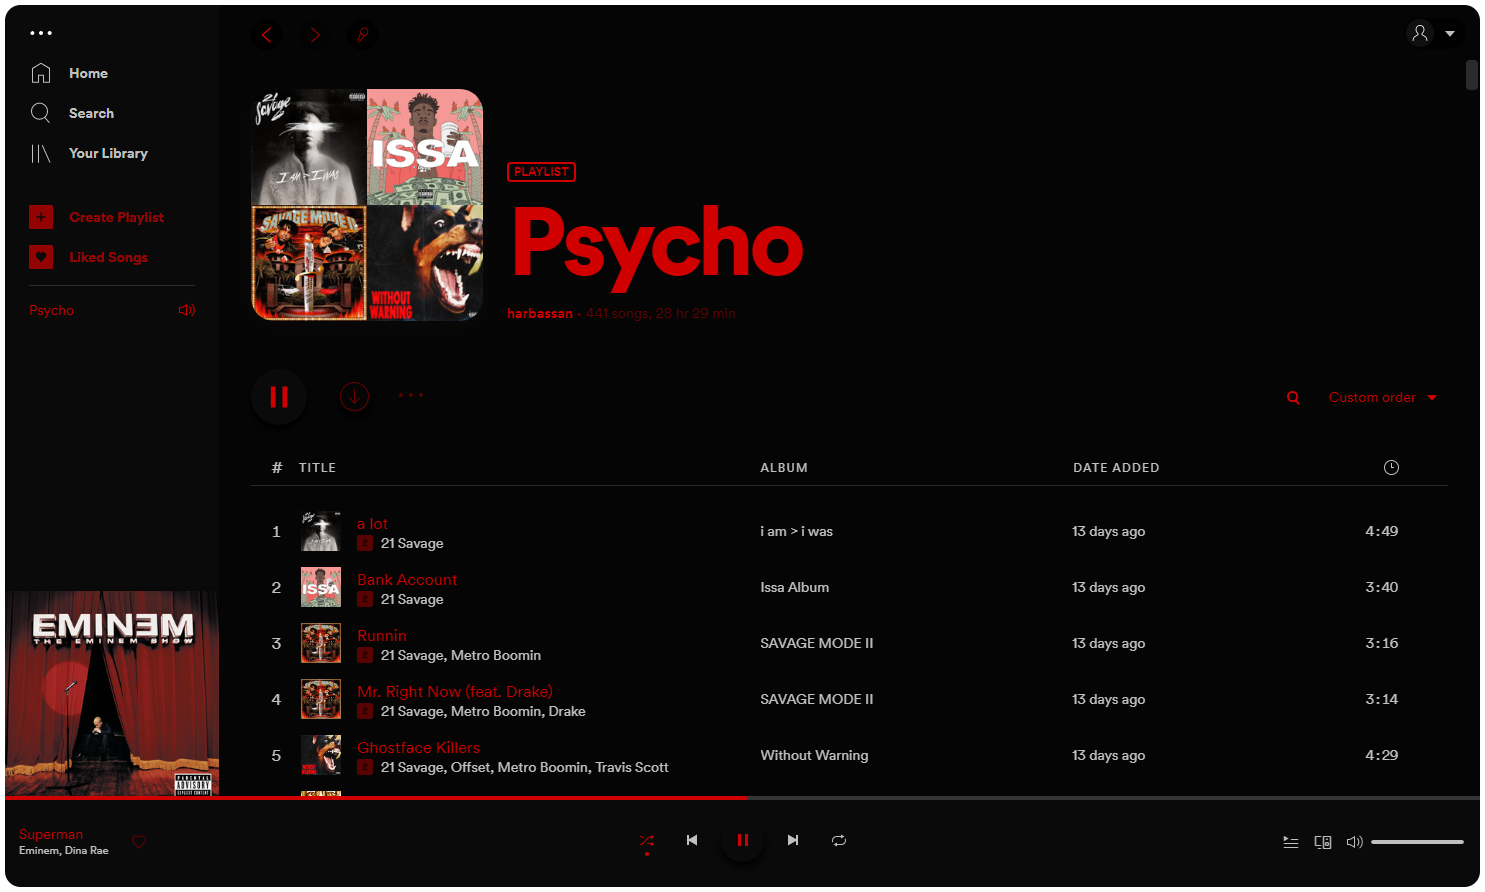
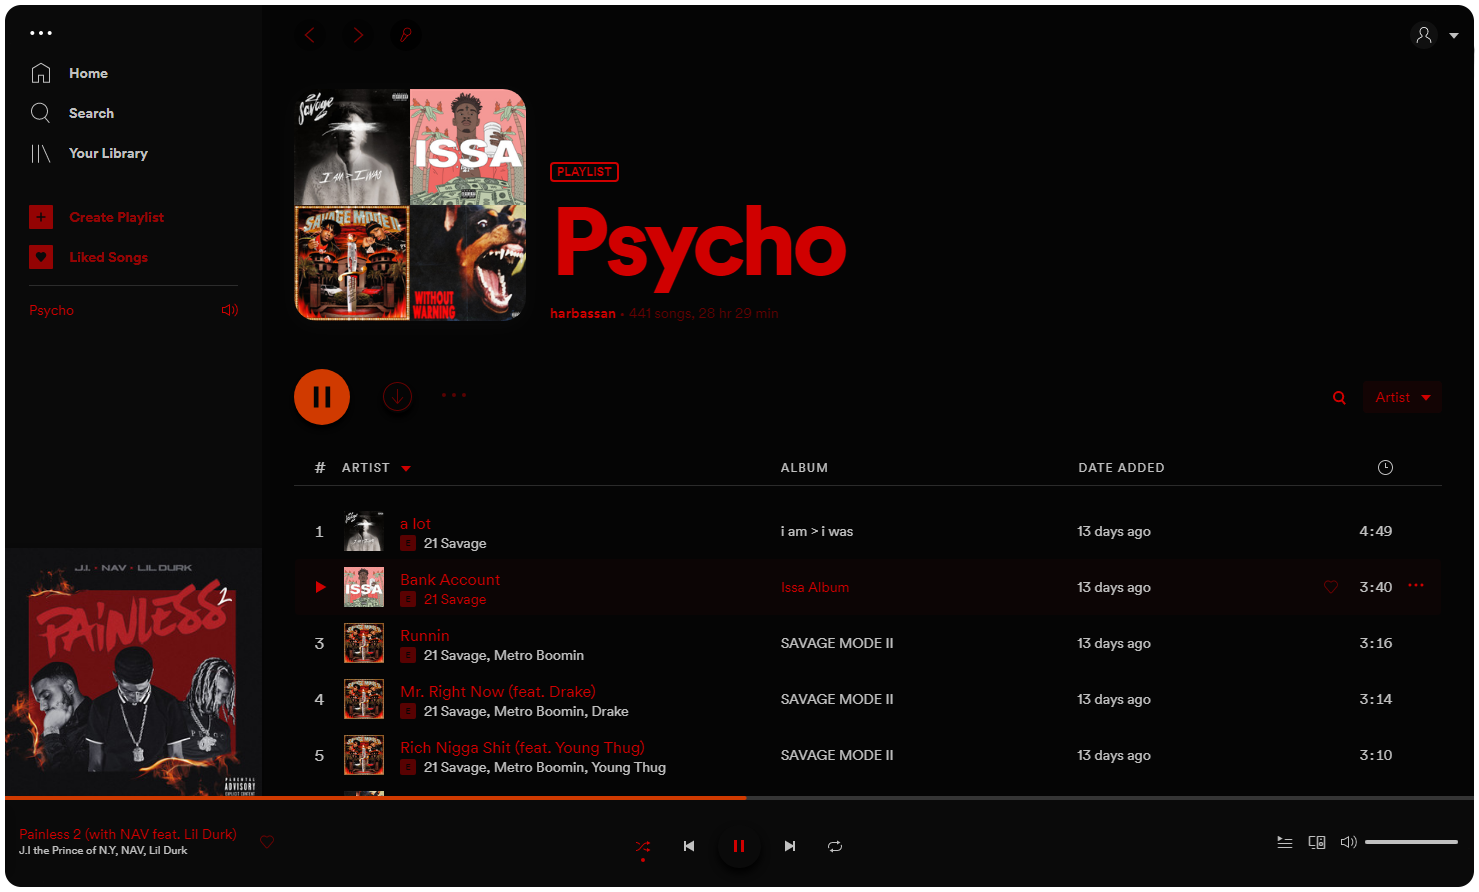
Update Theme

diff --git a/Sleek/user.css b/Sleek/user.css
@@ -27,10 +27,6 @@ input {
     border: 0;
 }
 
-.main-playButton-PlayButton.main-playButton-primary {
-    color: var(--spice-main);
-}
-
 .connect-title, .connect-header {
     display: none;
 }
@@ -81,10 +77,6 @@ span.artist-artistVerifiedBadge-badge svg:nth-child(1) {
     display: none !important;
 }
 
-.main-billboardComponent-footer {
-    display: none !important;
-}
-
 /* Hide Upgrade Button */
 
 .main-topBar-UpgradeButton {
@@ -113,18 +105,8 @@ span.artist-artistVerifiedBadge-badge svg:nth-child(1) {
 }
 
 /* Changing Playback Bar Location */
-
-.playback-bar .progress-bar-wrapper {
-    right: 82.9%;
-}
-
-.playback-bar .progress-bar__bg, .playback-bar .progress-bar__fg_wrapper {
-    width: 265.8%;
+.progress-bar__bg, .progress-bar__fg_wrapper {
     border-radius: 0;
-}
-
-.playback-bar .progress-bar__fg {
-    background-color: var(--spice-text);
 }
 
 .playback-bar__progress-time {
@@ -132,7 +114,9 @@ span.artist-artistVerifiedBadge-badge svg:nth-child(1) {
 }
 
 .playback-bar {
-    transform: translateY(-72px);
+    width: 100%;
+    bottom: 83px;
+    position: absolute;
 }
 
 .main-playbackBarRemainingTime-container {
@@ -147,14 +131,13 @@ span.artist-artistVerifiedBadge-badge svg:nth-child(1) {
     background-color: var(--spice-main);
     box-shadow: var(--spice-shadow) 0 5px 9px 0px;
     --button-size: 43px !important;
-    color: var(--spice-button);
+    color: var(--spice-text);
 }
 
 .player-controls__buttons {
     align-items: center;
 }
 
-/* Give Subtitles Border */
 .main-entityTitle-subtitle.main-entityTitle-small.main-entityTitle-uppercase.main-entityTitle-bold {
     border: 2px var(--spice-text) solid;
     border-radius: 4px;
@@ -164,11 +147,6 @@ span.artist-artistVerifiedBadge-badge svg:nth-child(1) {
     padding: 0 5px;
 }
 
-.main-entityTitle-subtitle.main-entityTitle-small {
-    color: var(--spice-button);
-}
-
-/* Change Scrollbar Color */
 .os-theme-spotify.os-host-transition>.os-scrollbar-vertical>.os-scrollbar-track>.os-scrollbar-handle {
     border-radius: 4px;
     background-color: rgba(var(--spice-rgb-button-disabled),.8);
@@ -186,6 +164,7 @@ span.artist-artistVerifiedBadge-badge svg:nth-child(1) {
 
 .main-userWidget-box {
     color: var(--spice-subtext);
+    background-color: transparent !important;
 }
 
 /* Improve Sidebar Buttons */
@@ -236,24 +215,46 @@ span.artist-artistVerifiedBadge-badge svg:nth-child(1) {
 
 /* Main Play Button Change */
 .main-playButton-PlayButton.main-playButton-primary {
-    color: var(--spice-text);
-    background-color: var(--spice-player);
+    color: var(--spice-main);
+    background-color: var(--spice-playback-bar);
     box-shadow: var(--spice-shadow) 0 5px 4px 0px;
 }
 
-/* Download Button Change */
+.main-entityHeader-metaDataText.main-type-mesto:nth-child(2) {
+    display: none;
+}
+
+.main-entityHeader-image {
+    border-radius: 10%;
+}
+
 .x-downloadButton-button {
     box-shadow: var(--spice-shadow) 0 5px 4px 0px;
     background: var(--spice-player);
     border-radius: 50%;
 }
 
-/* Remove Likes Information */
-.main-entityHeader-metaDataText.main-type-mesto:nth-child(2) {
-    display: none;
+/* Link playback-bar color */
+.playback-bar .progress-bar__fg {
+    background-color: var(--spice-playback-bar);
 }
 
-/* Give Main Image Curved Edges */
-.main-entityHeader-image {
-    border-radius: 10%;
+:not(.no-focus-outline) .progress-bar:focus-within .progress-bar__fg {
+    background-color: var(--spice-playback-bar);
+}
+
+.main-navBar-navBarLinkActive {
+    background-color: var(--spice-playback-bar);
+}
+
+.main-navBar-navBarLinkActive, .main-navBar-navBarLinkActive:focus, .main-navBar-navBarLinkActive:hover, .logo {
+    color: var(--spice-subtext);
+}
+
+.main-navBar-navBarLink:focus, .main-navBar-navBarLink:hover {
+    color: var(--spice-subtext);
+}
+
+.progress-bar__slider {
+    background-color: var(--spice-subtext);
 }

diff --git a/THEMES.md b/THEMES.md
@@ -8,7 +8,13 @@ Here you can find a preview of all the themes. Some of them may have different c
 
 ## Sleek
 
+#### Psycho
+
 ![Psycho Screenshot](Sleek/psycho.png)
+
+#### Deep
+
+![Psycho Screenshot](Sleek/deep.png)
 
 ## Onepunch
 

diff --git a/Sleek/README.md b/Sleek/README.md
@@ -1,7 +1,12 @@
 # Sleek
+
 ## Screenshots
 
+### Psycho
 ![Psycho Screenshot](psycho.png)
+
+### Deep
+![Deep Screenshot](deep.png)
 
 ## More
 
